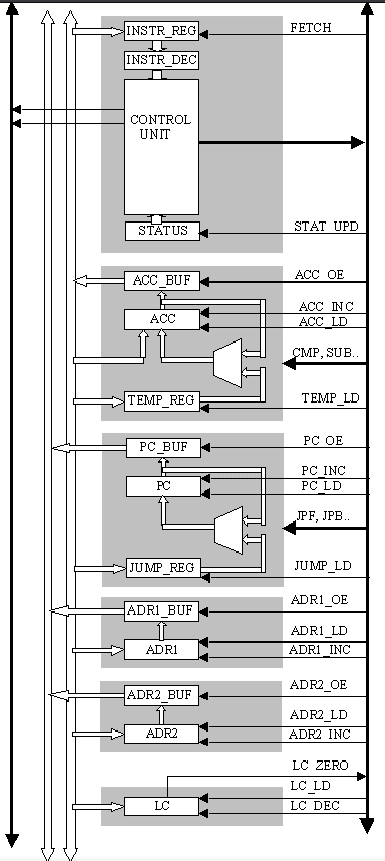
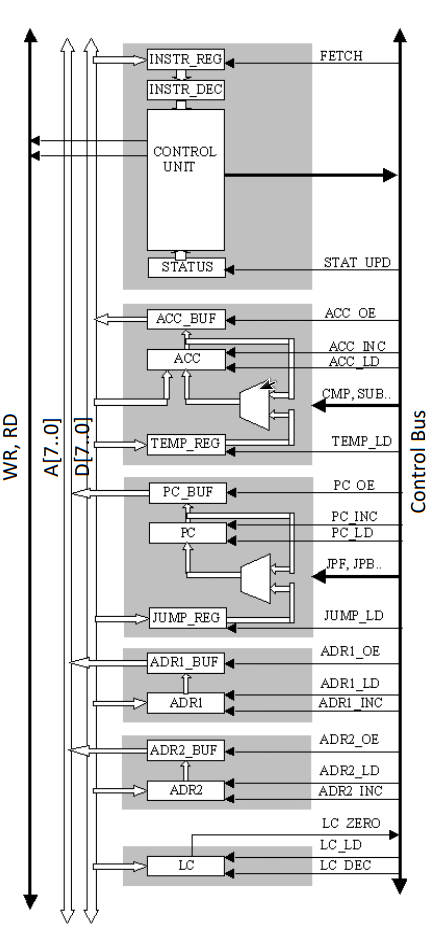
register first part working

diff --git a/README.md b/README.md
@@ -89,3 +89,35 @@ ST_ACC1 ; store in memory the value of the ACC register
 ```asm
 LD_ADDR1 $A ; load the address of A in the ADDR1
 ```
+
+# List of signals
+| Signal    | Meaning           | Units involved                  |
+| --------- | ----------------- | ------------------------------- |
+| FETCH     | Fetch signal      | Control bus -> CU (INSTR_REG)          |
+| STAT_UPD  | Status update     | Control bus -> CU(STATUS) |
+| ACC_OE    | Accumulator output enable | CU -> Control bus -> Accumulator(ACC_BUF) |
+| ACC_INC   | Accumulator increment   | CU -> Control bus -> Accumulator(ACC) |
+| ACC_LD    | Accumulator load        | CU -> Control bus -> Accumulator(ACC) |
+| CMP       | Compare operation       | CU -> Control bus -> Accumulator(ALU) |
+| SUB       | Subtraction operation   | CU -> Control bus -> Accumulator(ALU) |
+| TEMP_LD   | Temporary register load | CU -> Control bus -> Accumulator(TMP_REG) |
+| PC_OE     | Program counter output enable | CU -> Control bus -> ProgramCounter(PC_BUF) |
+| PC_INC    | Program counter increment | CU -> Control bus -> ProgramCounter(PC) |
+| PC_LD     | Program counter load | CU -> Control bus -> ProgramCounter(PC) |
+| JPF       | Jump forward        | CU -> Control bus -> ProgramCounter(ALU) |
+| JPB       | Jump backward       | CU -> Control bus -> ProgramCounter(ALU) |
+| JUMP_LD   | Jump load address   | CU -> Control bus -> ProgramCounter(JUMP_REG) |
+| ADDR1_OE  | Address 1 output enable | CU -> Control bus -> Register1(ADDR1_BUF) |
+| ADDR1_INC | Address 1 increment     | CU -> Control bus -> Register1(ADDR1) |
+| ADDR1_LD  | Address 1 load          | CU -> Control bus -> Register1(ADDR1)  |
+| ADDR2_OE  | Address 2 output enable | CU -> Control bus -> Register2(ADDR2_BUF)  |
+| ADDR2_INC | Address 2 increment     | CU -> Control bus -> Register2(ADDR2)  |
+| ADDR2_LD  | Address 2 load          | CU -> Control bus -> Register2(ADDR2)  |
+
+# Registers
+![register](images/register.png)
+
+Since the LD_ADDR* instructions are 2 bytes instructions, this is how they should work.
+1. Instruction LD_ADDR is fetched and decoded. ADD_LD signal is sent by the CU
+2. On the *Data bus* the address is loaded in ADDR*
+3. On the EXEC clk iteration the address is sent to ADDR*_BUF. The CU sends a signal of ACC_OE and the address is released in the *Address bus*
